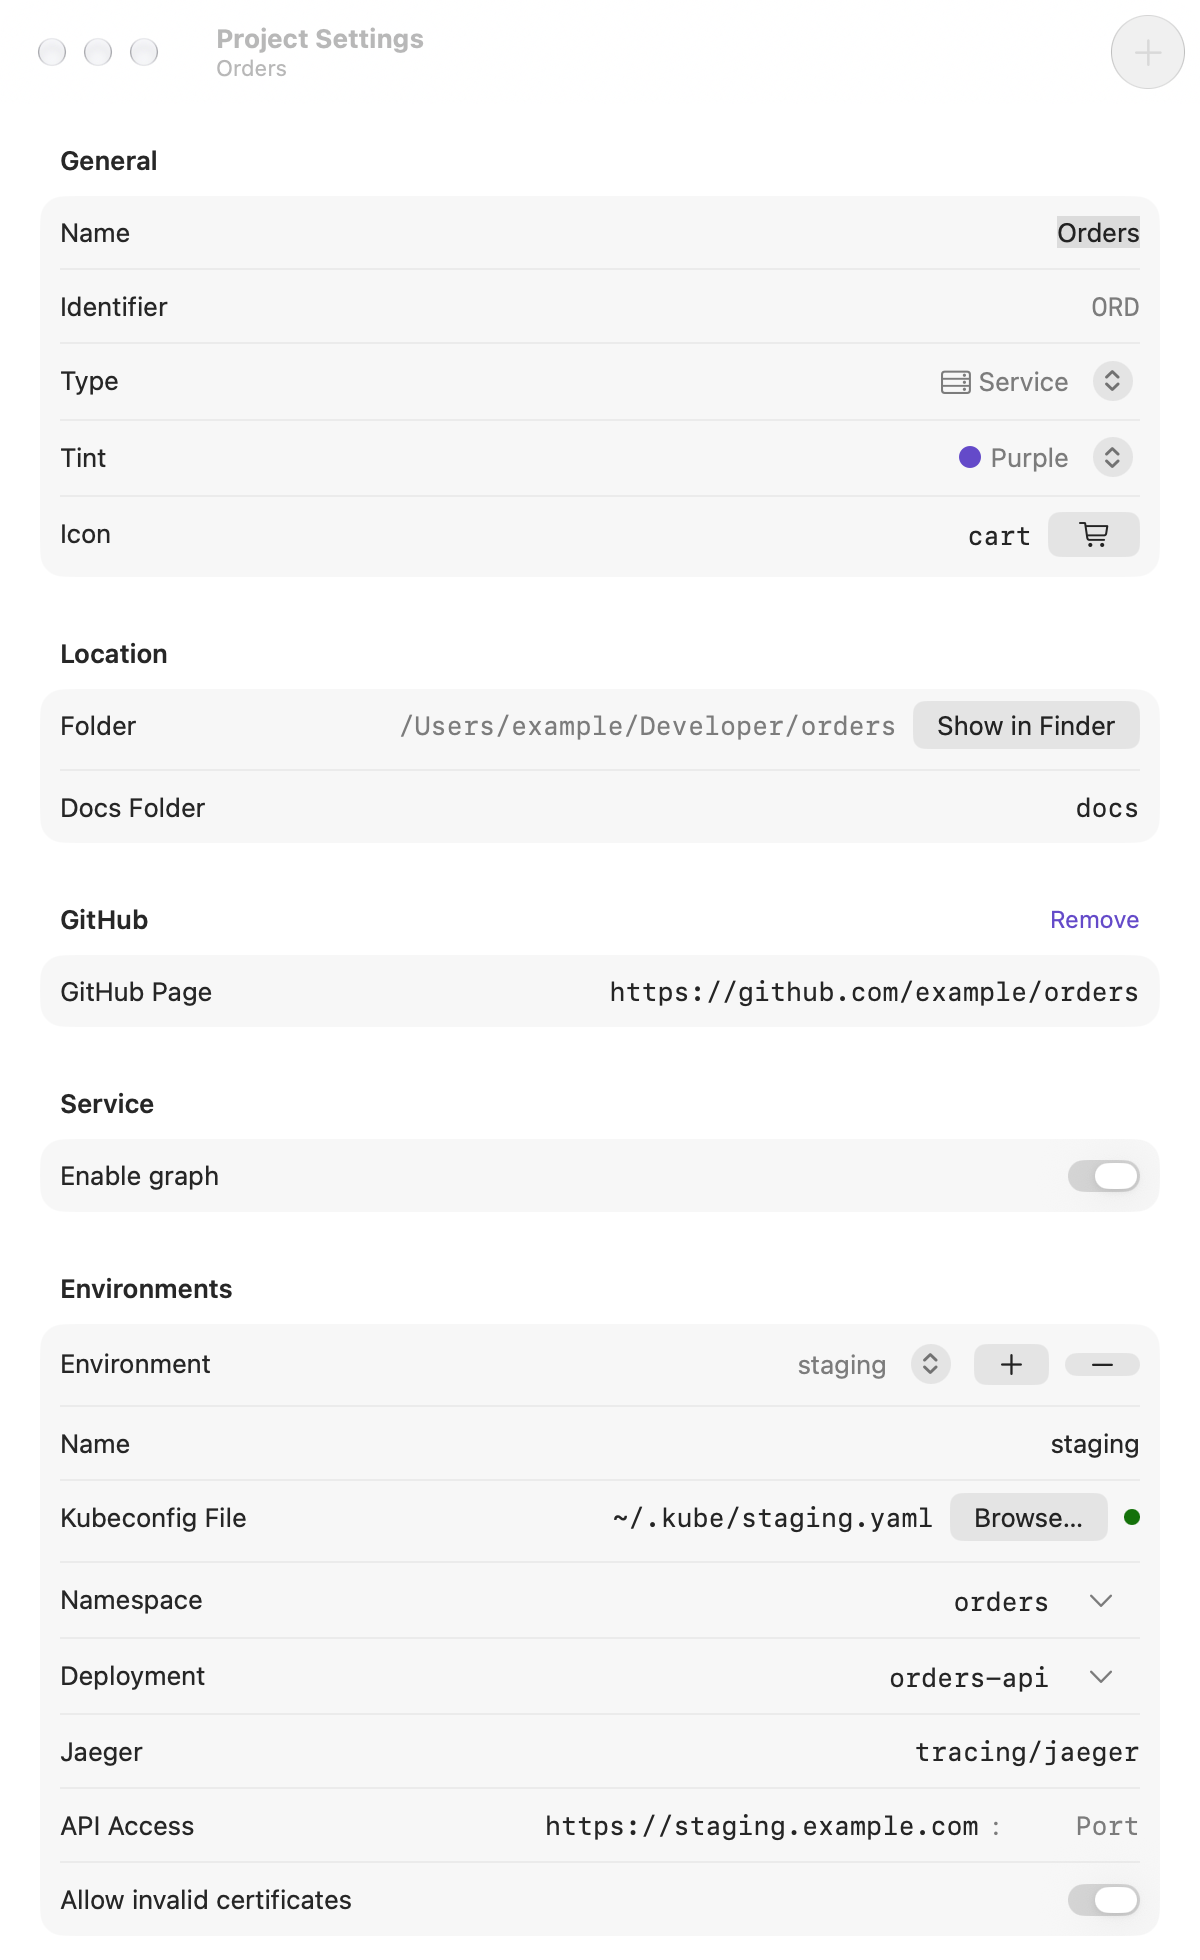
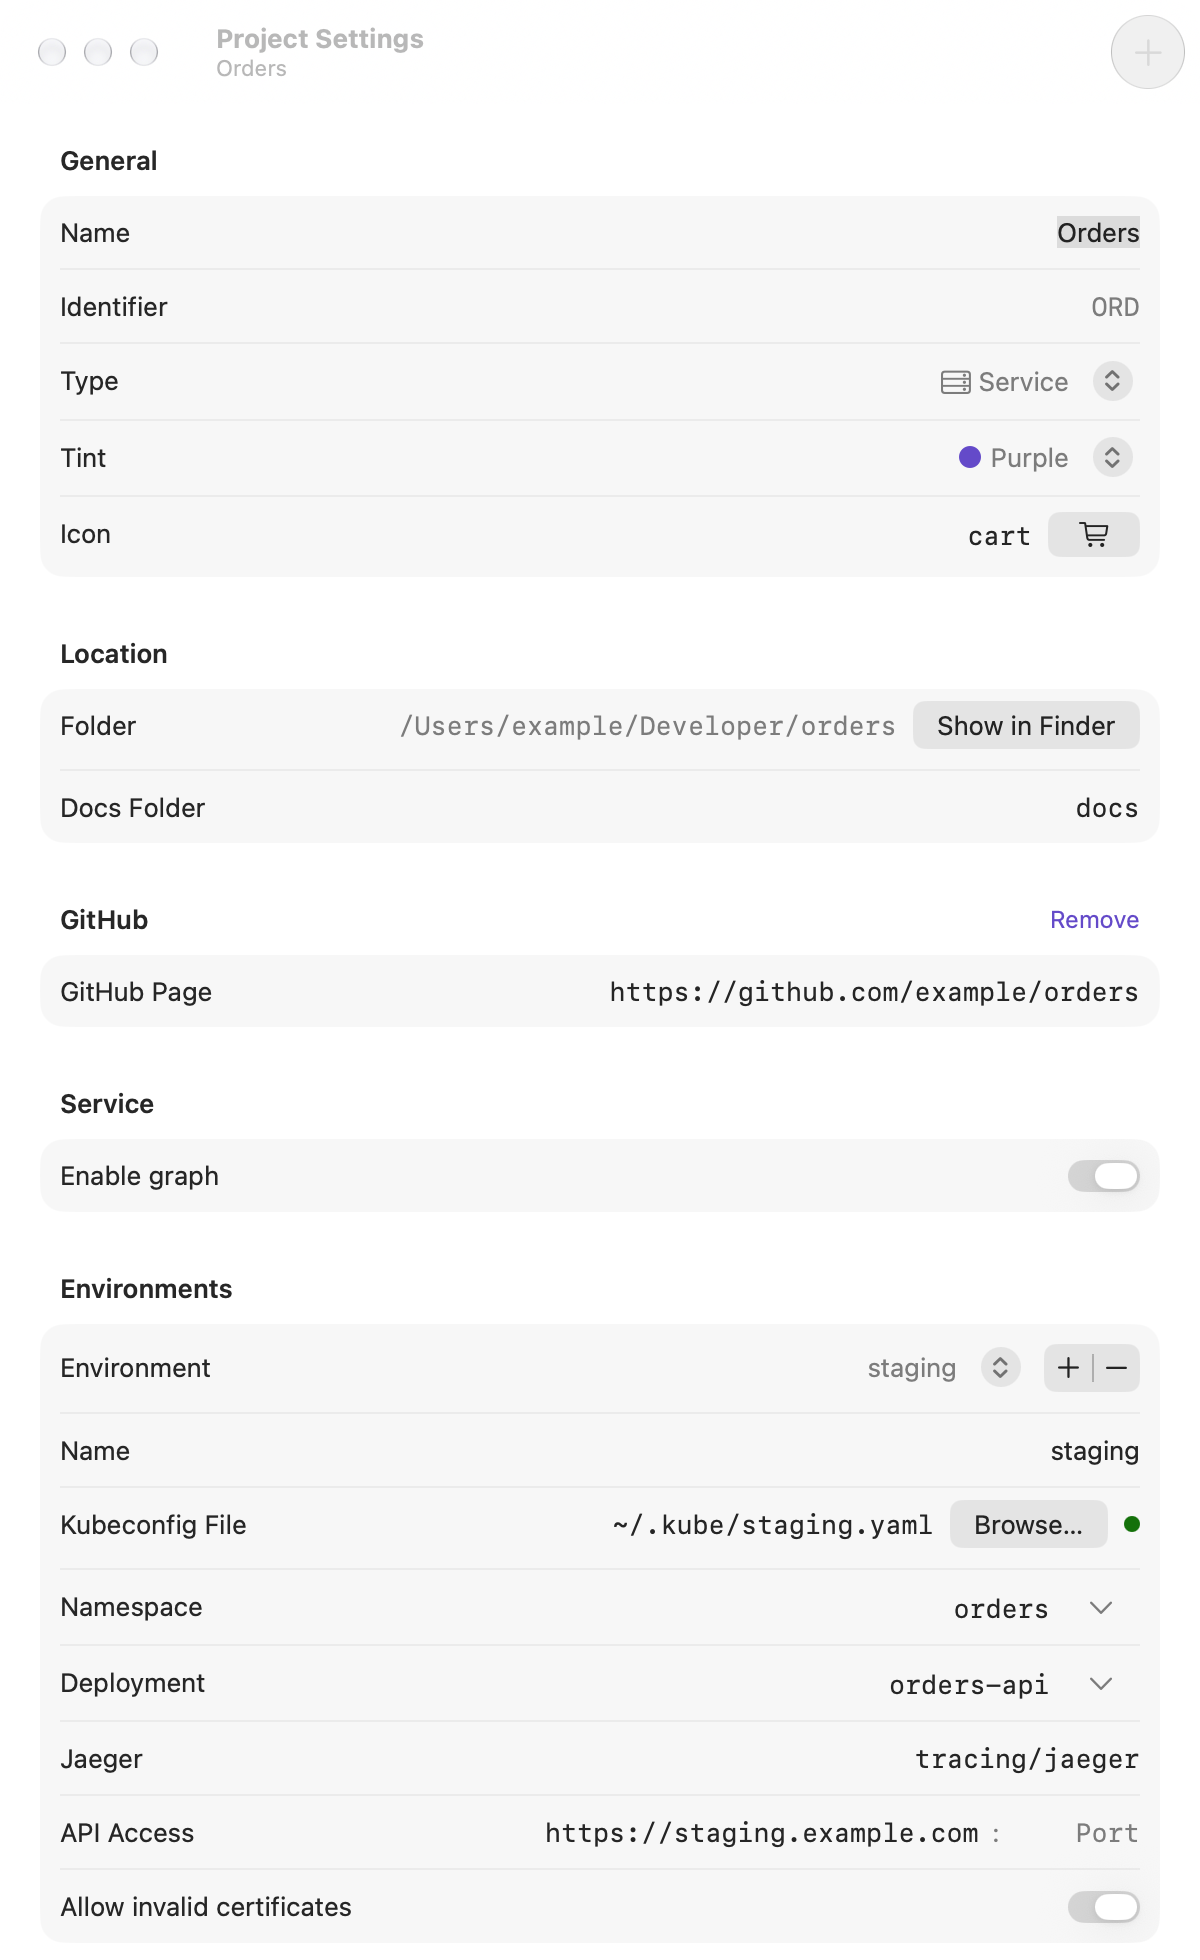
Project Settings: + and − of the environments in one control group
The two were separate bordered buttons, each sized to its symbol, so +
stood taller than −. A ControlGroup draws them as one control of one
height.

diff --git a/HephaestusV3Kit/Sources/ProjectsKit/ProjectSettingsView.swift b/HephaestusV3Kit/Sources/ProjectsKit/ProjectSettingsView.swift
@@ -317,23 +317,26 @@ private struct ProjectSettingsForm: View {
                 }
                 .disabled(model.environments.isEmpty)
                 .accessibilityIdentifier("projectSettings.environment")
-                Button {
-                    Task { await model.addEnvironment() }
-                } label: {
-                    Label(String(localized: "Add Environment", bundle: #bundle), systemImage: "plus")
-                        .labelStyle(.iconOnly)
+                // One control for the pair, as macOS draws + and −: both the same height, whatever their symbols.
+                ControlGroup {
+                    Button {
+                        Task { await model.addEnvironment() }
+                    } label: {
+                        Label(String(localized: "Add Environment", bundle: #bundle), systemImage: "plus")
+                    }
+                    .help(String(localized: "Add Environment", bundle: #bundle))
+                    .accessibilityIdentifier("projectSettings.environment.add")
+                    Button {
+                        Task { await model.removeEnvironment() }
+                    } label: {
+                        Label(String(localized: "Remove Environment", bundle: #bundle), systemImage: "minus")
+                    }
+                    .disabled(selected == nil || inherited)
+                    .help(String(localized: "Remove Environment", bundle: #bundle))
+                    .accessibilityIdentifier("projectSettings.environment.remove")
                 }
-                .help(String(localized: "Add Environment", bundle: #bundle))
-                .accessibilityIdentifier("projectSettings.environment.add")
-                Button {
-                    Task { await model.removeEnvironment() }
-                } label: {
-                    Label(String(localized: "Remove Environment", bundle: #bundle), systemImage: "minus")
-                        .labelStyle(.iconOnly)
-                }
-                .disabled(selected == nil || inherited)
-                .help(String(localized: "Remove Environment", bundle: #bundle))
-                .accessibilityIdentifier("projectSettings.environment.remove")
+                .labelStyle(.iconOnly)
+                .fixedSize()
             }
             if inherited, let parentName = model.parent?.file.name {
                 Text("Inherited from “\(parentName)”: fields left empty keep its values, shown in grey.", bundle: #bundle)

diff --git a/docs/ui/project-settings.md b/docs/ui/project-settings.md
@@ -125,6 +125,8 @@ GitHub section is in `+`.*
   the current environment. Before it switches, the fields that hold a value not applied yet apply to the
   environment they showed. Disabled without environments; then the footer says "No environment yet. Add one
   with +." and the rows under the pop-up are hidden.
+- **`+` and `−`** are one `ControlGroup` after the pop-up, icons only, at its natural size: one control of
+  one height, as macOS draws an add and remove pair.
 - **`+`** (help "Add Environment") adds an environment of the project's own named "New Environment", or the
   first free "New Environment 2", "New Environment 3"…, and selects it.
 - **`−`** (help "Remove Environment") removes the selected environment at once; disabled for an inherited one.
